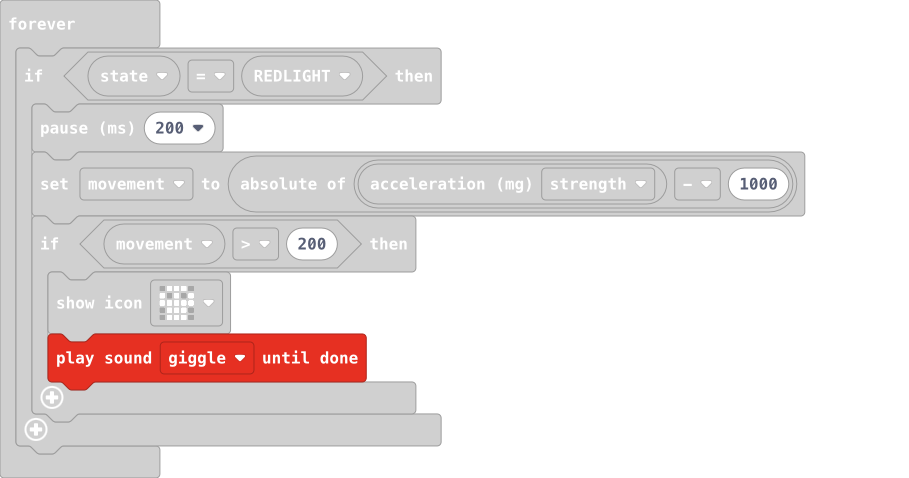
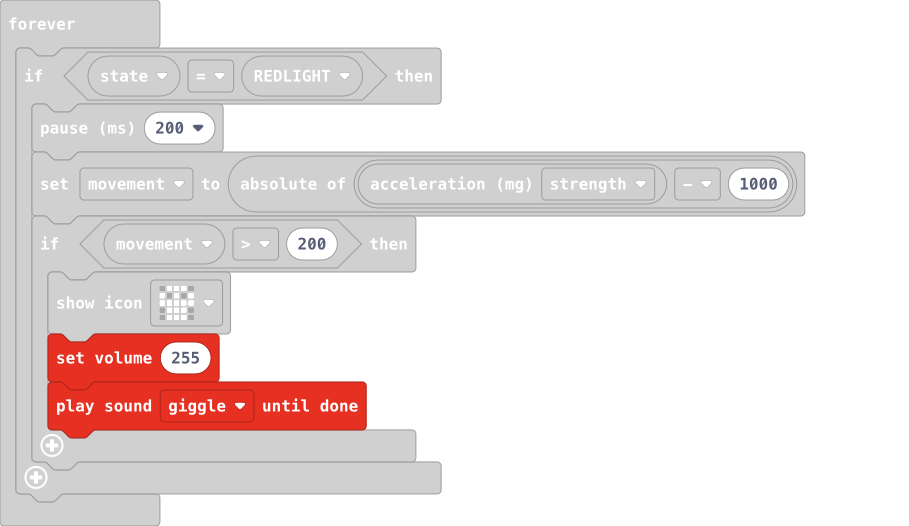
Update main.ts, main.blocks

Changed region(s): [[0.0, 0.0879, 0.8933, 0.9665], [0.0, 0.0293, 0.0924, 0.0586], [0.0308, 0.4979, 0.0616, 0.5272]]

diff --git a/main.ts b/main.ts
@@ -19,6 +19,7 @@ basic.forever(function () {
         movement = Math.abs(input.acceleration(Dimension.Strength) - 1000)
         if (movement > 200) {
             basic.showIcon(IconNames.Skull)
+            music.setVolume(255)
             soundExpression.giggle.playUntilDone()
         }
     }
